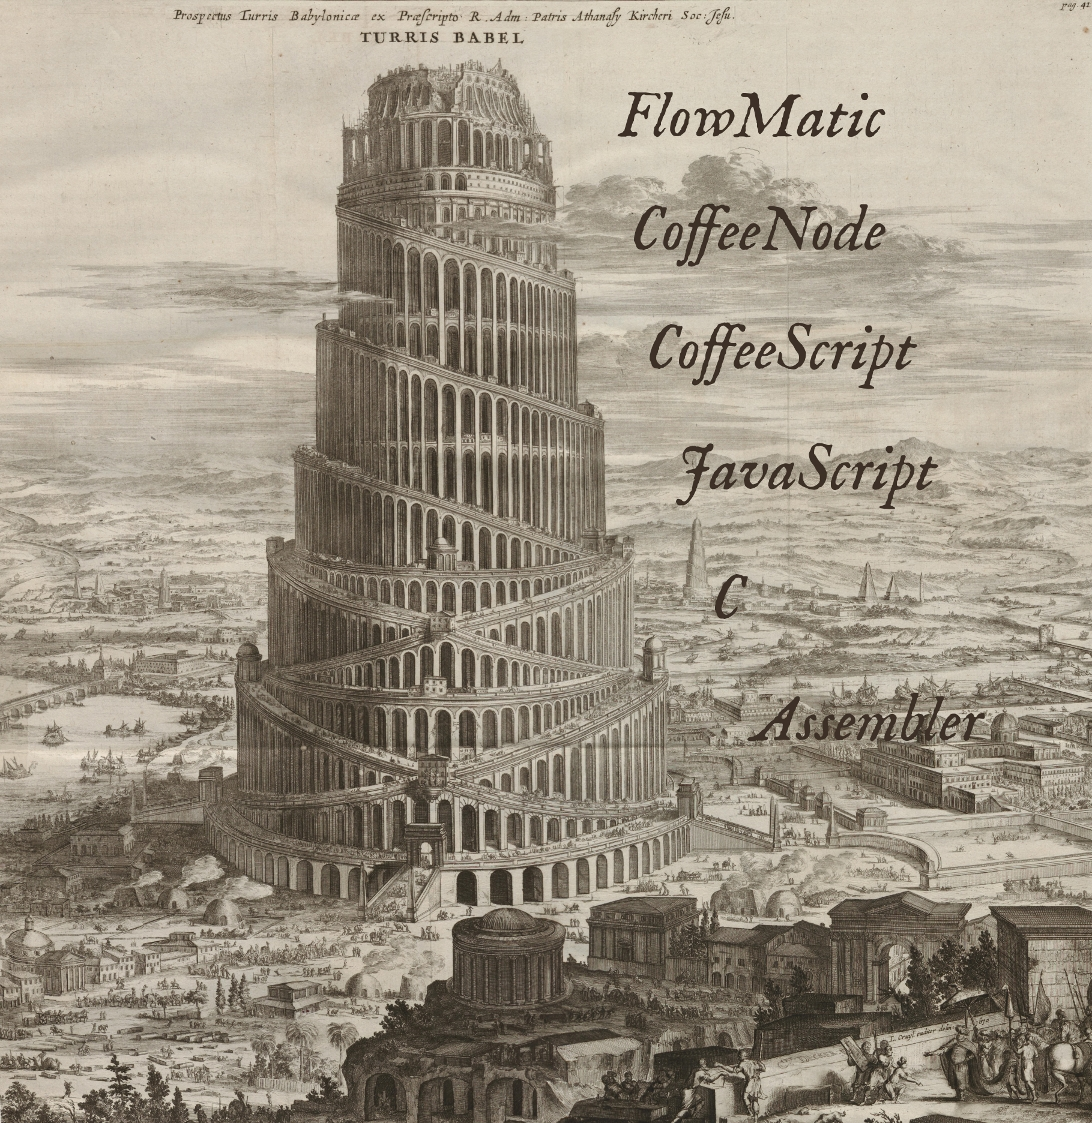
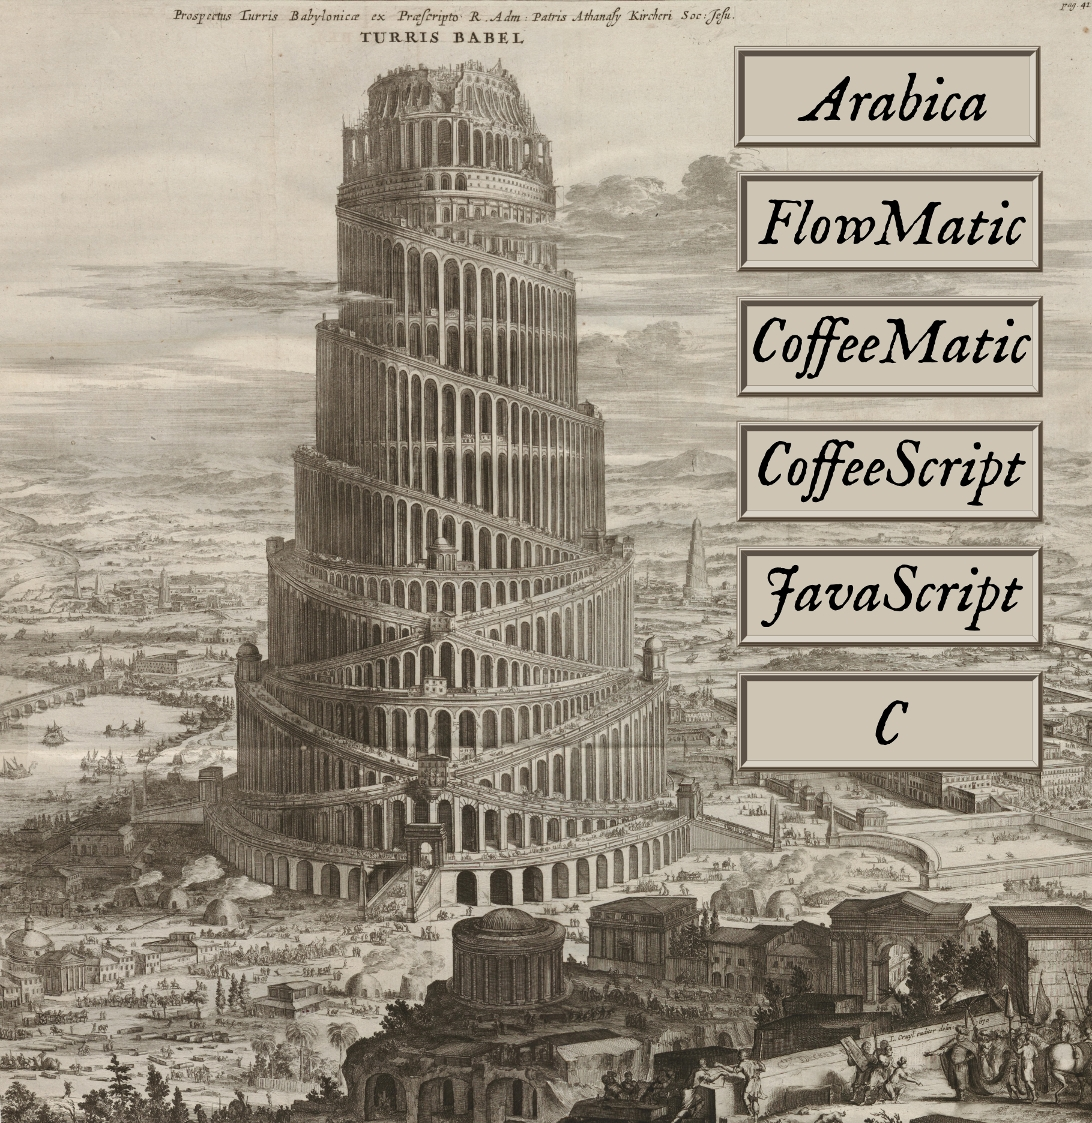
yo bro.

Changed region(s): [[0.5604, 0.0312, 0.9652, 0.6857]]

diff --git a/index.html b/index.html
@@ -658,7 +658,7 @@ $.new = ( x = null ) -&gt;
   #...........................................................................................
   return R
 </code></pre></li>
-<li><p>Using this code in a <code>*.cnd</code> module (the <code>new_set</code> vocable courtesy of the LSD system that augments <code>*.cnd</code> files):</p>
+<li><p>Using this code in a CoffeeMatic module (the <code>new_set</code> vocable courtesy of the LSD system that augments CoffeeMatic files):</p>
 <pre><code>new_set 'helo world'
 </code></pre>
 <p>gives you</p>
@@ -680,11 +680,11 @@ $.new = ( x = null ) -&gt;
 <p id="section-16"></p>
 </div>
 <div class="slide">
-<h1 id="wait--.cnd-files">Wait—<code>*.cnd</code> Files???</h1>
+<h1 id="wait--coffeematic-files">Wait—CoffeeMatic Files???</h1>
 <h2 id="theyre-just-coffeescript">They’re just CoffeeScript</h2>
 <ul>
 <li><p><code>cnd</code> is short for ‘CoffeeNode’.</p></li>
-<li><p><code>*.cnd</code> files implement a kind of ‘augmented’ CoffeeScript</p></li>
+<li><p>CoffeeMatic files implement a kind of ‘augmented’ CoffeeScript</p></li>
 <li><p>where the grammar is left untouched</p></li>
 <li><p>but vocabulary gets injected prior to execution.</p></li>
 <li><p>You run them with</p>
@@ -739,10 +739,10 @@ log reverse copy names
 <p id="section-17"></p>
 </div>
 <div class="slide">
-<h1 id="wait--.cnd-files-1">Wait—<code>*.cnd</code> Files???</h1>
+<h1 id="wait--coffeematic-files-1">Wait—CoffeeMatic Files???</h1>
 <h2 id="the-vocabulary">The Vocabulary</h2>
 <ul>
-<li><p>Currently there are three groups of words that qualify for automatic inclusion in <code>*.cnd</code> files:</p>
+<li><p>Currently there are three groups of words that qualify for automatic inclusion in CoffeeMatic files:</p>
 <ul>
 <li><p>Specific Δ Methods: they are dispatched to the type library that is associated with the type of the first argument in the call (a.k.a. the ‘prinicipal noun’).</p></li>
 <li><p>Generic Δ Methods: they are dispatched to the library that is identified in a registry (more later).</p></li>
@@ -1110,9 +1110,9 @@ footprints = yeti ? &quot;bear&quot;
 <p id="section-33"></p>
 </div>
 <div class="slide">
-<h1 id="flowmatic-beyond-.cnd">FlowMatic: Beyond <code>*.cnd</code></h1>
+<h1 id="beyond-coffeematic-flowmatic">Beyond CoffeeMatic: FlowMatic</h1>
 <ul>
-<li><p>We’ve seen that we can do <em>lot</em> with <code>*.cnd</code> modules.</p></li>
+<li><p>We’ve seen that we can do <em>lot</em> with CoffeeMatic modules.</p></li>
 <li><p>It’s almost a new language.</p></li>
 <li><p>Almost.</p></li>
 <li><p>Except we have no handle to manipulate the non-verbal / syntactical behaviors.</p></li>
@@ -1122,7 +1122,7 @@ x[ 3 ] = 42
 a = [ 8, 7, 6, ]
 f()
 </code></pre></li>
-<li><p><code>x[ 'foo' ] == undefined</code> is the source for an important class of silent failures in JavaScript, and we’re still unable to fix this with CoffeeScript and <code>*.cnd</code> alone.</p></li>
+<li><p><code>x[ 'foo' ] == undefined</code> is the source for an important class of silent failures in JavaScript, and we’re still unable to fix this with CoffeeScript and CoffeeMatic alone.</p></li>
 <li><p>Extending the syntax of CoffeeScript is feasible, but cumbersome.</p></li>
 <li><p>I’d really like to explore what we could do if we had a flexible system where we can easily define new syntax—both to</p>
 <ul>
@@ -1133,14 +1133,14 @@ f()
 <p id="section-34"></p>
 </div>
 <div class="slide">
-<h1 id="flowmatic-beyond-.cnd-1">FlowMatic: Beyond <code>*.cnd</code></h1>
+<h1 id="beyond-coffeematic-flowmatic-1">Beyond CoffeeMatic: FlowMatic</h1>
 <div class="figure">
 <img src="./resources/flowmatic-logo-3.0.png" /><p class="caption"></p>
 </div>
 <p id="section-35"></p>
 </div>
 <div class="slide">
-<h1 id="flowmatic-beyond-.cnd-2">FlowMatic: Beyond <code>*.cnd</code></h1>
+<h1 id="beyond-coffeematic-flowmatic-2">Beyond CoffeeMatic: FlowMatic</h1>
 <div class="figure">
 <img src="./resources/flowmatic-logo-3.0-small.png" /><p class="caption"></p>
 </div>
@@ -1194,7 +1194,7 @@ f()
 <p id="section-36"></p>
 </div>
 <div class="slide">
-<h1 id="flowmatic-beyond-.cnd-3">FlowMatic: Beyond <code>*.cnd</code></h1>
+<h1 id="beyond-coffeematic-flowmatic-3">Beyond CoffeeMatic: FlowMatic</h1>
 <div class="figure">
 <img src="./resources/flowmatic-logo-3.0-small.png" /><p class="caption"></p>
 </div>
@@ -1222,7 +1222,7 @@ f()
 <p id="section-37"></p>
 </div>
 <div class="slide">
-<h1 id="flowmatic-beyond-.cnd-4">FlowMatic: Beyond <code>*.cnd</code></h1>
+<h1 id="beyond-coffeematic-flowmatic-4">Beyond CoffeeMatic: FlowMatic</h1>
 <div class="figure">
 <img src="./resources/flowmatic-logo-3.0-small.png" /><p class="caption"></p>
 </div>
@@ -1232,7 +1232,7 @@ f()
 <p id="section-38"></p>
 </div>
 <div class="slide">
-<h1 id="flowmatic-beyond-.cnd-5">FlowMatic: Beyond <code>*.cnd</code></h1>
+<h1 id="beyond-coffeematic-flowmatic-5">Beyond CoffeeMatic: FlowMatic</h1>
 <div class="figure">
 <img src="./resources/flowmatic-logo-3.0-small.png" /><p class="caption"></p>
 </div>
@@ -1249,7 +1249,7 @@ f()
 <p id="section-39"></p>
 </div>
 <div class="slide">
-<h1 id="flowmatic-beyond-.cnd-6">FlowMatic: Beyond <code>*.cnd</code></h1>
+<h1 id="beyond-coffeematic-flowmatic-6">Beyond CoffeeMatic: FlowMatic</h1>
 <div class="figure">
 <img src="./resources/flowmatic-logo-3.0-small.png" /><p class="caption"></p>
 </div>

diff --git a/presentation-2012-04-16.md b/presentation-2012-04-16.md
@@ -639,8 +639,8 @@ value            `Object::toString.call value`
           #...........................................................................................
           return R
 
-*   Using this code in a `*.cnd` module (the `new_set` vocable courtesy of the LSD system that augments
-    `*.cnd` files):
+*   Using this code in a CoffeeMatic module (the `new_set` vocable courtesy of the LSD system that augments
+    CoffeeMatic files):
 
         new_set 'helo world'
 
@@ -666,13 +666,13 @@ value            `Object::toString.call value`
 
 ############################################################################################################
 
-# Wait—`*.cnd` Files???
+# Wait—CoffeeMatic Files???
 
 ## They're just CoffeeScript
 
 *   `cnd` is short for 'CoffeeNode'.
 
-*   `*.cnd` files implement a kind of 'augmented' CoffeeScript
+*   CoffeeMatic files implement a kind of 'augmented' CoffeeScript
 
 *   where the grammar is left untouched
 
@@ -738,11 +738,11 @@ value            `Object::toString.call value`
 
 ############################################################################################################
 
-# Wait—`*.cnd` Files???
+# Wait—CoffeeMatic Files???
 
 ## The Vocabulary
 
-*   Currently there are three groups of words that qualify for automatic inclusion in `*.cnd` files:
+*   Currently there are three groups of words that qualify for automatic inclusion in CoffeeMatic files:
 
     *   Specific Δ Methods: they are dispatched to the type library that is associated with the type
         of the first argument in the call (a.k.a. the 'prinicipal noun').
@@ -1243,9 +1243,9 @@ value            `Object::toString.call value`
 
 ############################################################################################################
 
-#   FlowMatic: Beyond `*.cnd`
+#   Beyond CoffeeMatic: FlowMatic
 
-*   We've seen that we can do *lot* with `*.cnd` modules.
+*   We've seen that we can do *lot* with CoffeeMatic modules.
 
 *   It's almost a new language.
 
@@ -1261,7 +1261,7 @@ value            `Object::toString.call value`
         f()
 
 *   `x[ 'foo' ] == undefined` is the source for an important class of silent failures in JavaScript, and
-    we're still unable to fix this with CoffeeScript and `*.cnd` alone.
+    we're still unable to fix this with CoffeeScript and CoffeeMatic alone.
 
 *   Extending the syntax of CoffeeScript is feasible, but cumbersome.
 
@@ -1276,14 +1276,14 @@ value            `Object::toString.call value`
 
 ############################################################################################################
 
-#   FlowMatic: Beyond `*.cnd`
+#   Beyond CoffeeMatic: FlowMatic
 
 ![](./resources/flowmatic-logo-3.0.png)
 
 
 ############################################################################################################
 
-#   FlowMatic: Beyond `*.cnd`
+#   Beyond CoffeeMatic: FlowMatic
 
 ![](./resources/flowmatic-logo-3.0-small.png)
 
@@ -1338,7 +1338,7 @@ value            `Object::toString.call value`
 
 ############################################################################################################
 
-#   FlowMatic: Beyond `*.cnd`
+#   Beyond CoffeeMatic: FlowMatic
 
 ![](./resources/flowmatic-logo-3.0-small.png)
 
@@ -1374,7 +1374,7 @@ value            `Object::toString.call value`
 
 ############################################################################################################
 
-#   FlowMatic: Beyond `*.cnd`
+#   Beyond CoffeeMatic: FlowMatic
 
 ![](./resources/flowmatic-logo-3.0-small.png)
 
@@ -1383,7 +1383,7 @@ value            `Object::toString.call value`
 
 ############################################################################################################
 
-#   FlowMatic: Beyond `*.cnd`
+#   Beyond CoffeeMatic: FlowMatic
 
 ![](./resources/flowmatic-logo-3.0-small.png)
 
@@ -1409,7 +1409,7 @@ value            `Object::toString.call value`
 
 ############################################################################################################
 
-#   FlowMatic: Beyond `*.cnd`
+#   Beyond CoffeeMatic: FlowMatic
 
 ![](./resources/flowmatic-logo-3.0-small.png)
 
